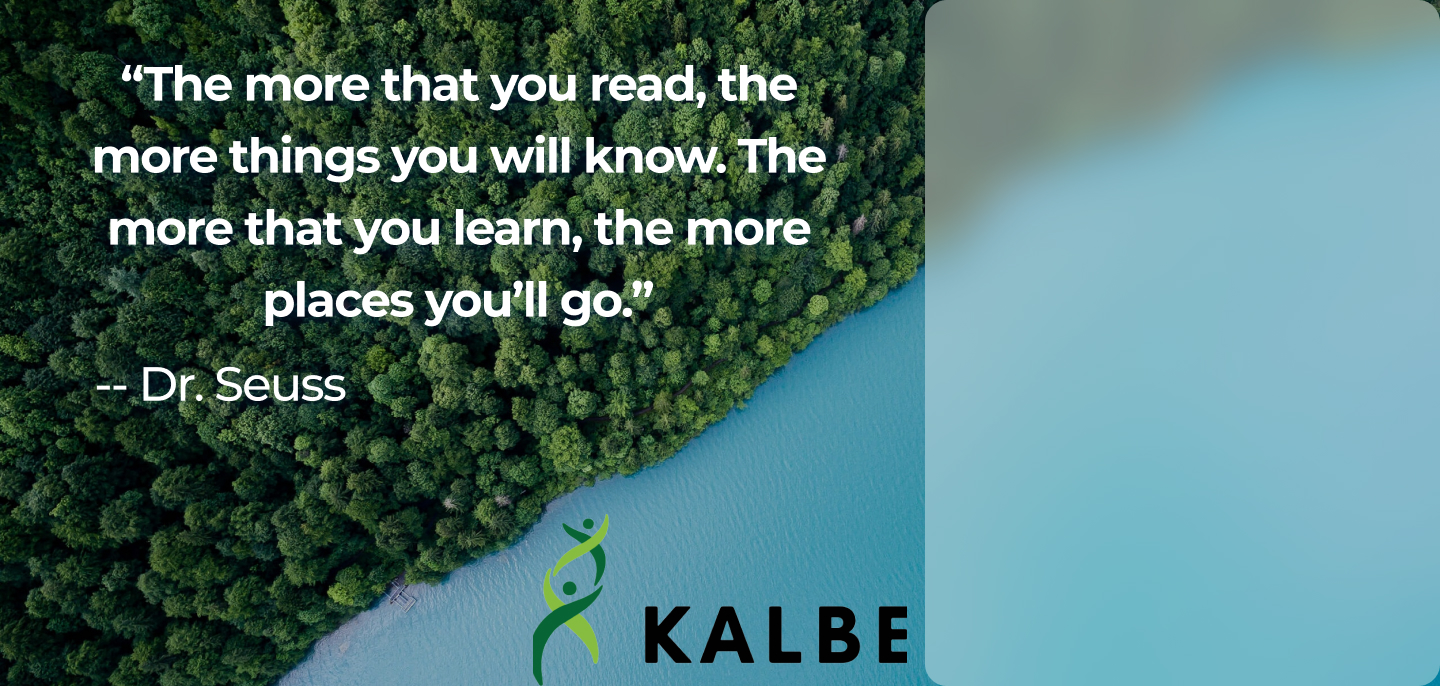
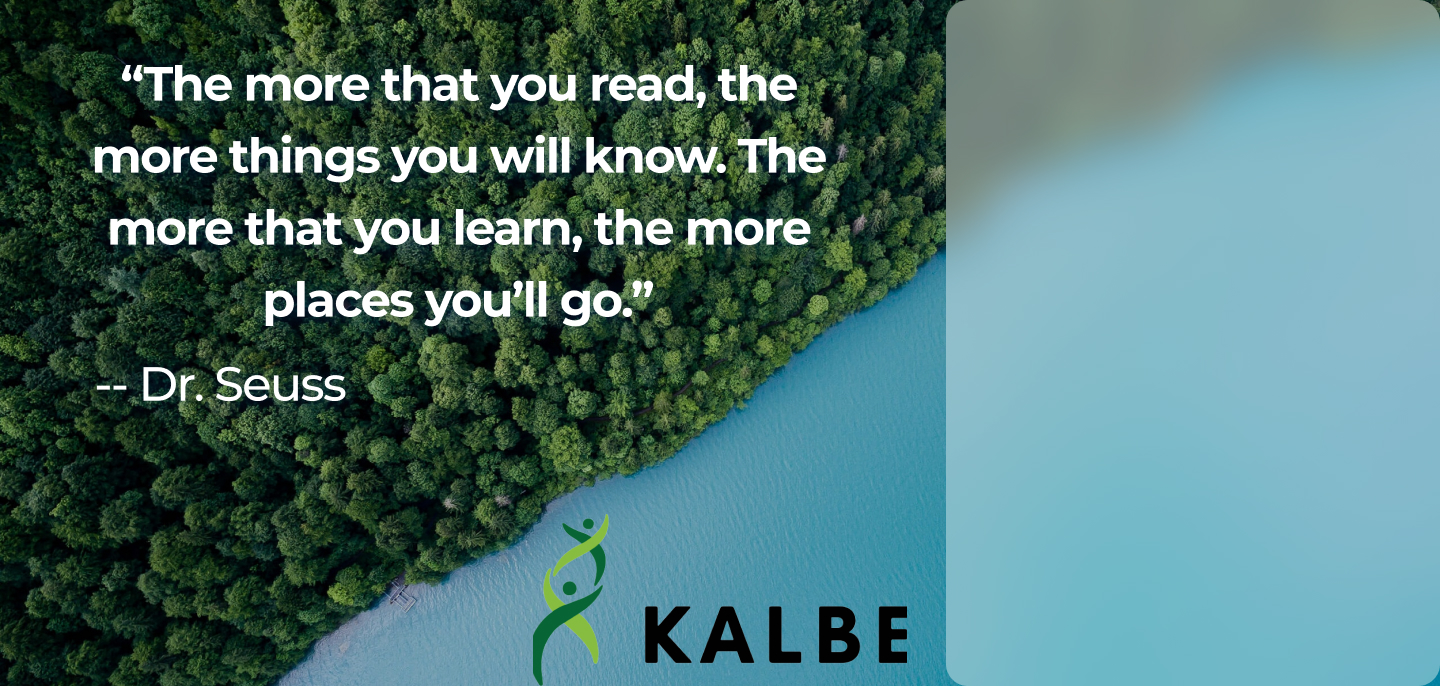
update

Changed region(s): [[0.625, 0.0, 0.6875, 1.0]]

diff --git a/app/Views/pages/login.php b/app/Views/pages/login.php
@@ -1,13 +1,12 @@
-<section class="vh-100">
-    <div class="container-fluid h-custom">
+<section class="vh-100" style=" background-image: url(assets/login.jpg); background-size: contain; background-repeat: no-repeat;" id="mainpage">
+    <div class="container-fluid h-custom ">
         <div class="row d-flex justify-content-center align-items-center h-100">
-            <div class="col-md-9 col-lg-6 col-xl-5">
-                <img src="https://mdbcdn.b-cdn.net/img/Photos/new-templates/bootstrap-login-form/draw2.webp" class="img-fluid" alt="Sample image">
+            <div class="col-md-9 col-lg-6 col-xl-7">
             </div>
             <div class="col-md-8 col-lg-6 col-xl-4 offset-xl-1">
                 <form>
-                    <div class="divider d-flex align-items-center my-4">
-                        <p class="text-center fw-bold mx-3 mb-0" style=" font-weight: 800; font-size: 32px;">Sign in</p>
+                    <div class="divider d-flex justify-content-center align-items-center my-5">
+                        <p class="text-center fw-bold mx-3 mb-0" style=" font-weight: 800; font-size: 60px;">Sign in</p>
                     </div>
 
                     <!-- Email input -->
@@ -33,7 +32,7 @@
                     </div>
 
                     <div class="text-center text-lg-start mt-4 pt-2">
-                        <button type="button" class="btn btn-primary btn-lg" style="padding-left: 2.5rem; padding-right: 2.5rem;">Login</button>
+                        <button type="button" class="btn btn-primary btn-lg" style="padding-left: 11rem; padding-right: 11rem;">Login</button>
                     </div>
 
                 </form>
